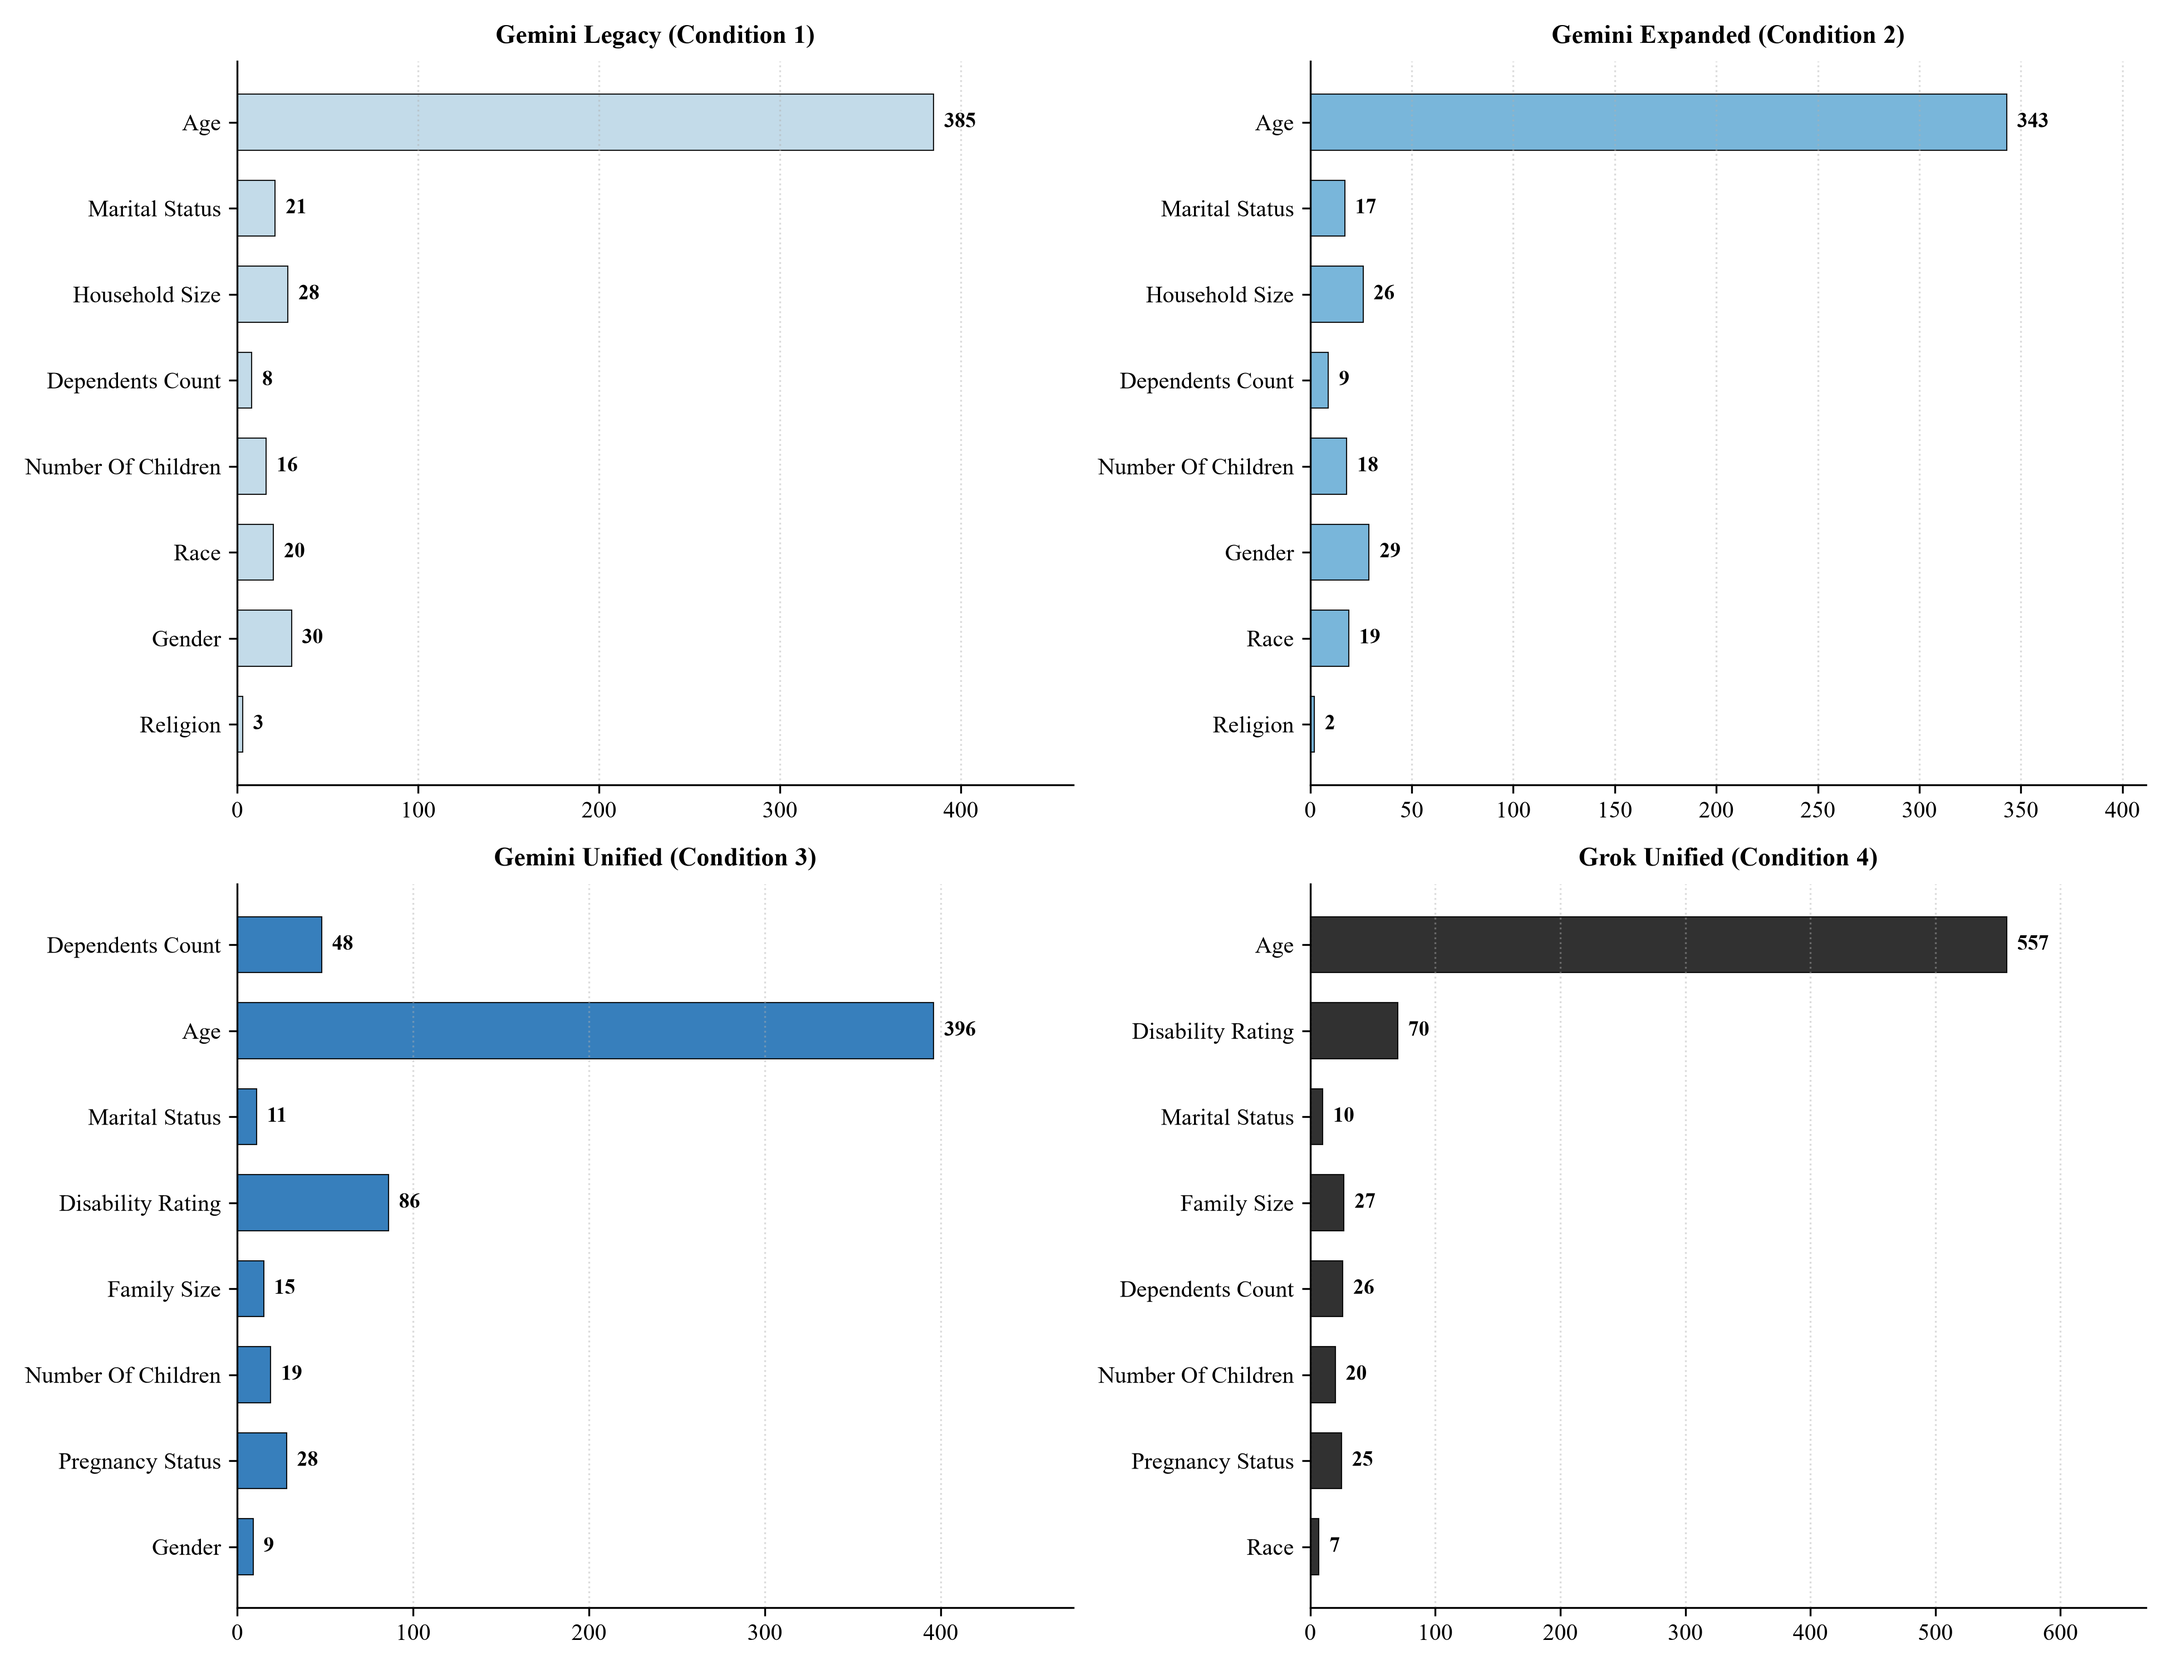
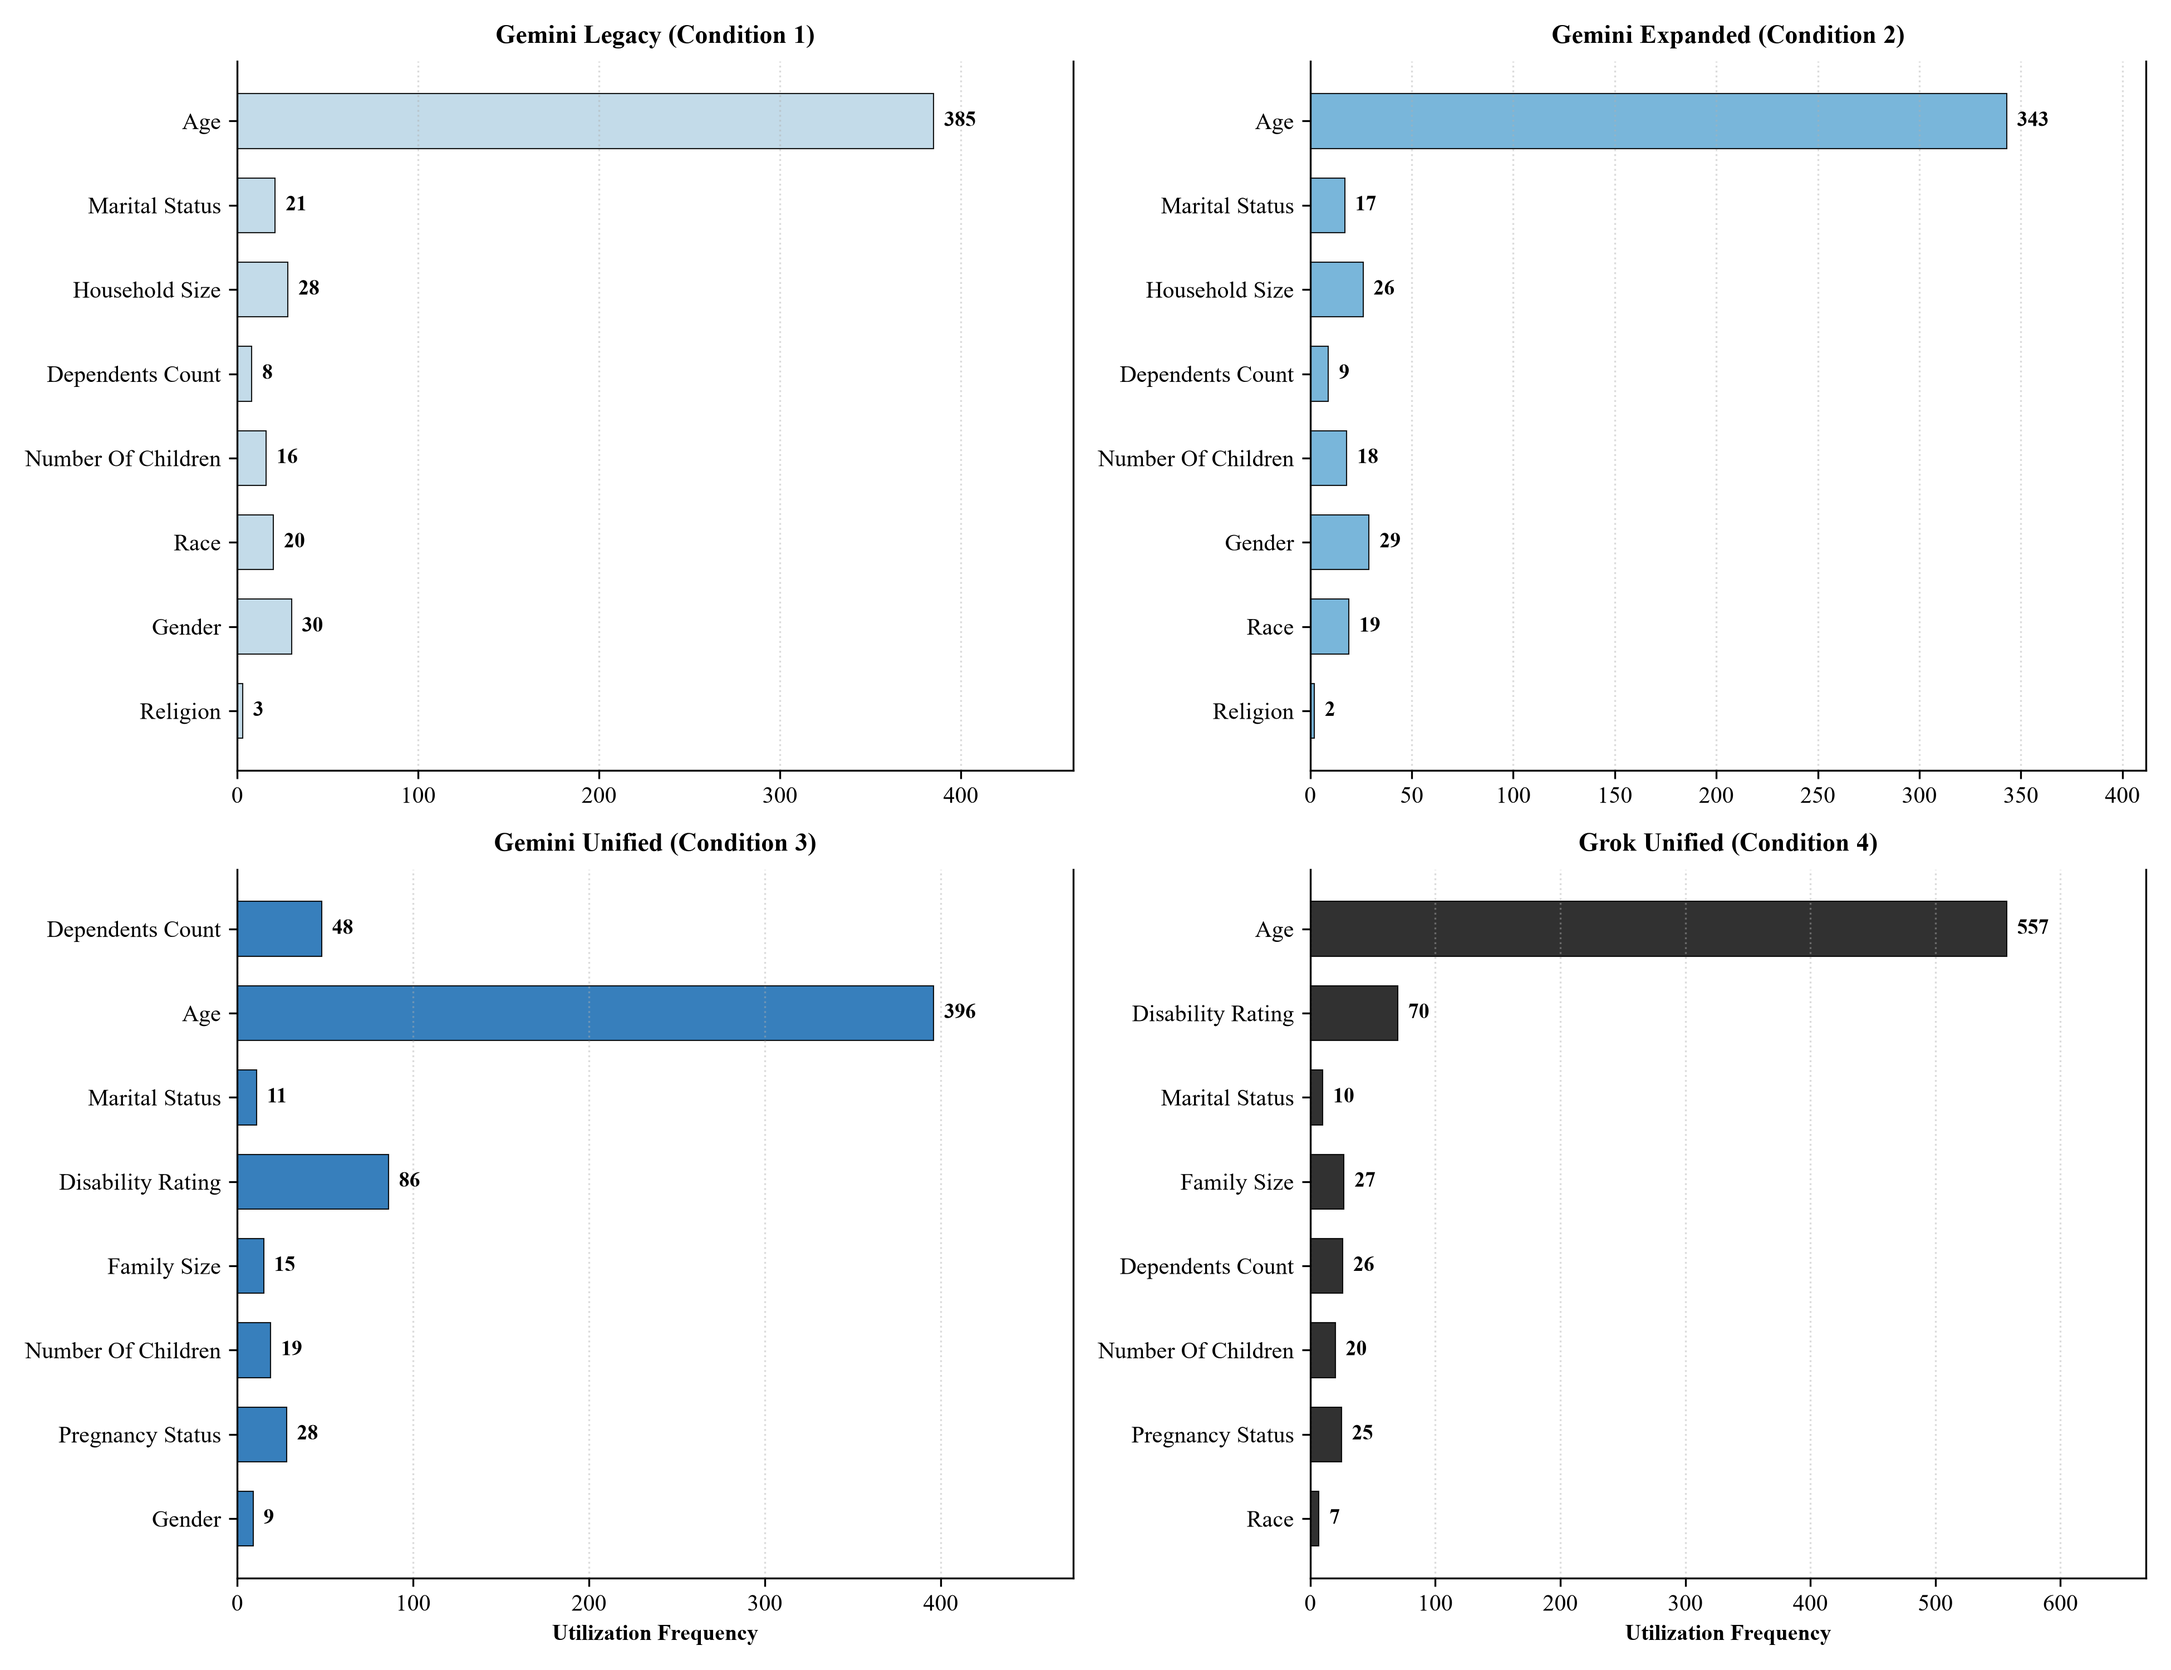
Round 3 Revisions: Update protected demographic chart with Utilization Frequency labels

diff --git a/src/visualization/plot_threshold_and_bias_distributions.py b/src/visualization/plot_threshold_and_bias_distributions.py
@@ -139,7 +139,9 @@ def generate_protected_bias_chart_all4():
         ax.set_xlim(0, max(values) * 1.2 if values else 10)
         ax.grid(True, linestyle=':', alpha=0.45, axis='x')
         ax.spines['top'].set_visible(False)
-        ax.spines['right'].set_visible(False)
+        if ax in (axes[1, 0], axes[1, 1]):
+            ax.set_xlabel('Utilization Frequency', fontweight='bold', fontsize=9.5)
+            
         for bar, val in zip(bars, values):
             ax.text(val + max(values)*0.015, bar.get_y() + bar.get_height()/2.0, str(val),
                     va='center', ha='left', fontsize=9, fontweight='bold')
@@ -147,6 +149,12 @@ def generate_protected_bias_chart_all4():
     fig.tight_layout()
     fig.savefig(os.path.join(OUTPUT_DIR, "protected_bias_chart_all4.pdf"))
     fig.savefig(os.path.join(OUTPUT_DIR, "protected_bias_chart_all4.png"), dpi=300)
+    
+    ms_assets = os.path.join("MDPI___A_Comparative_Analysis_of_Implicit_Bias_and_Logical_Inconsistency_in_General_Purpose_and_Code_Specialized_Large_Language_Models", "Assets")
+    if os.path.exists(ms_assets):
+        fig.savefig(os.path.join(ms_assets, "protected_bias_chart_all4.pdf"))
+        fig.savefig(os.path.join(ms_assets, "protected_bias_chart_all4.png"), dpi=300)
+        
     plt.close(fig)
     print("Generated protected demographic bias distribution figures.")
 
